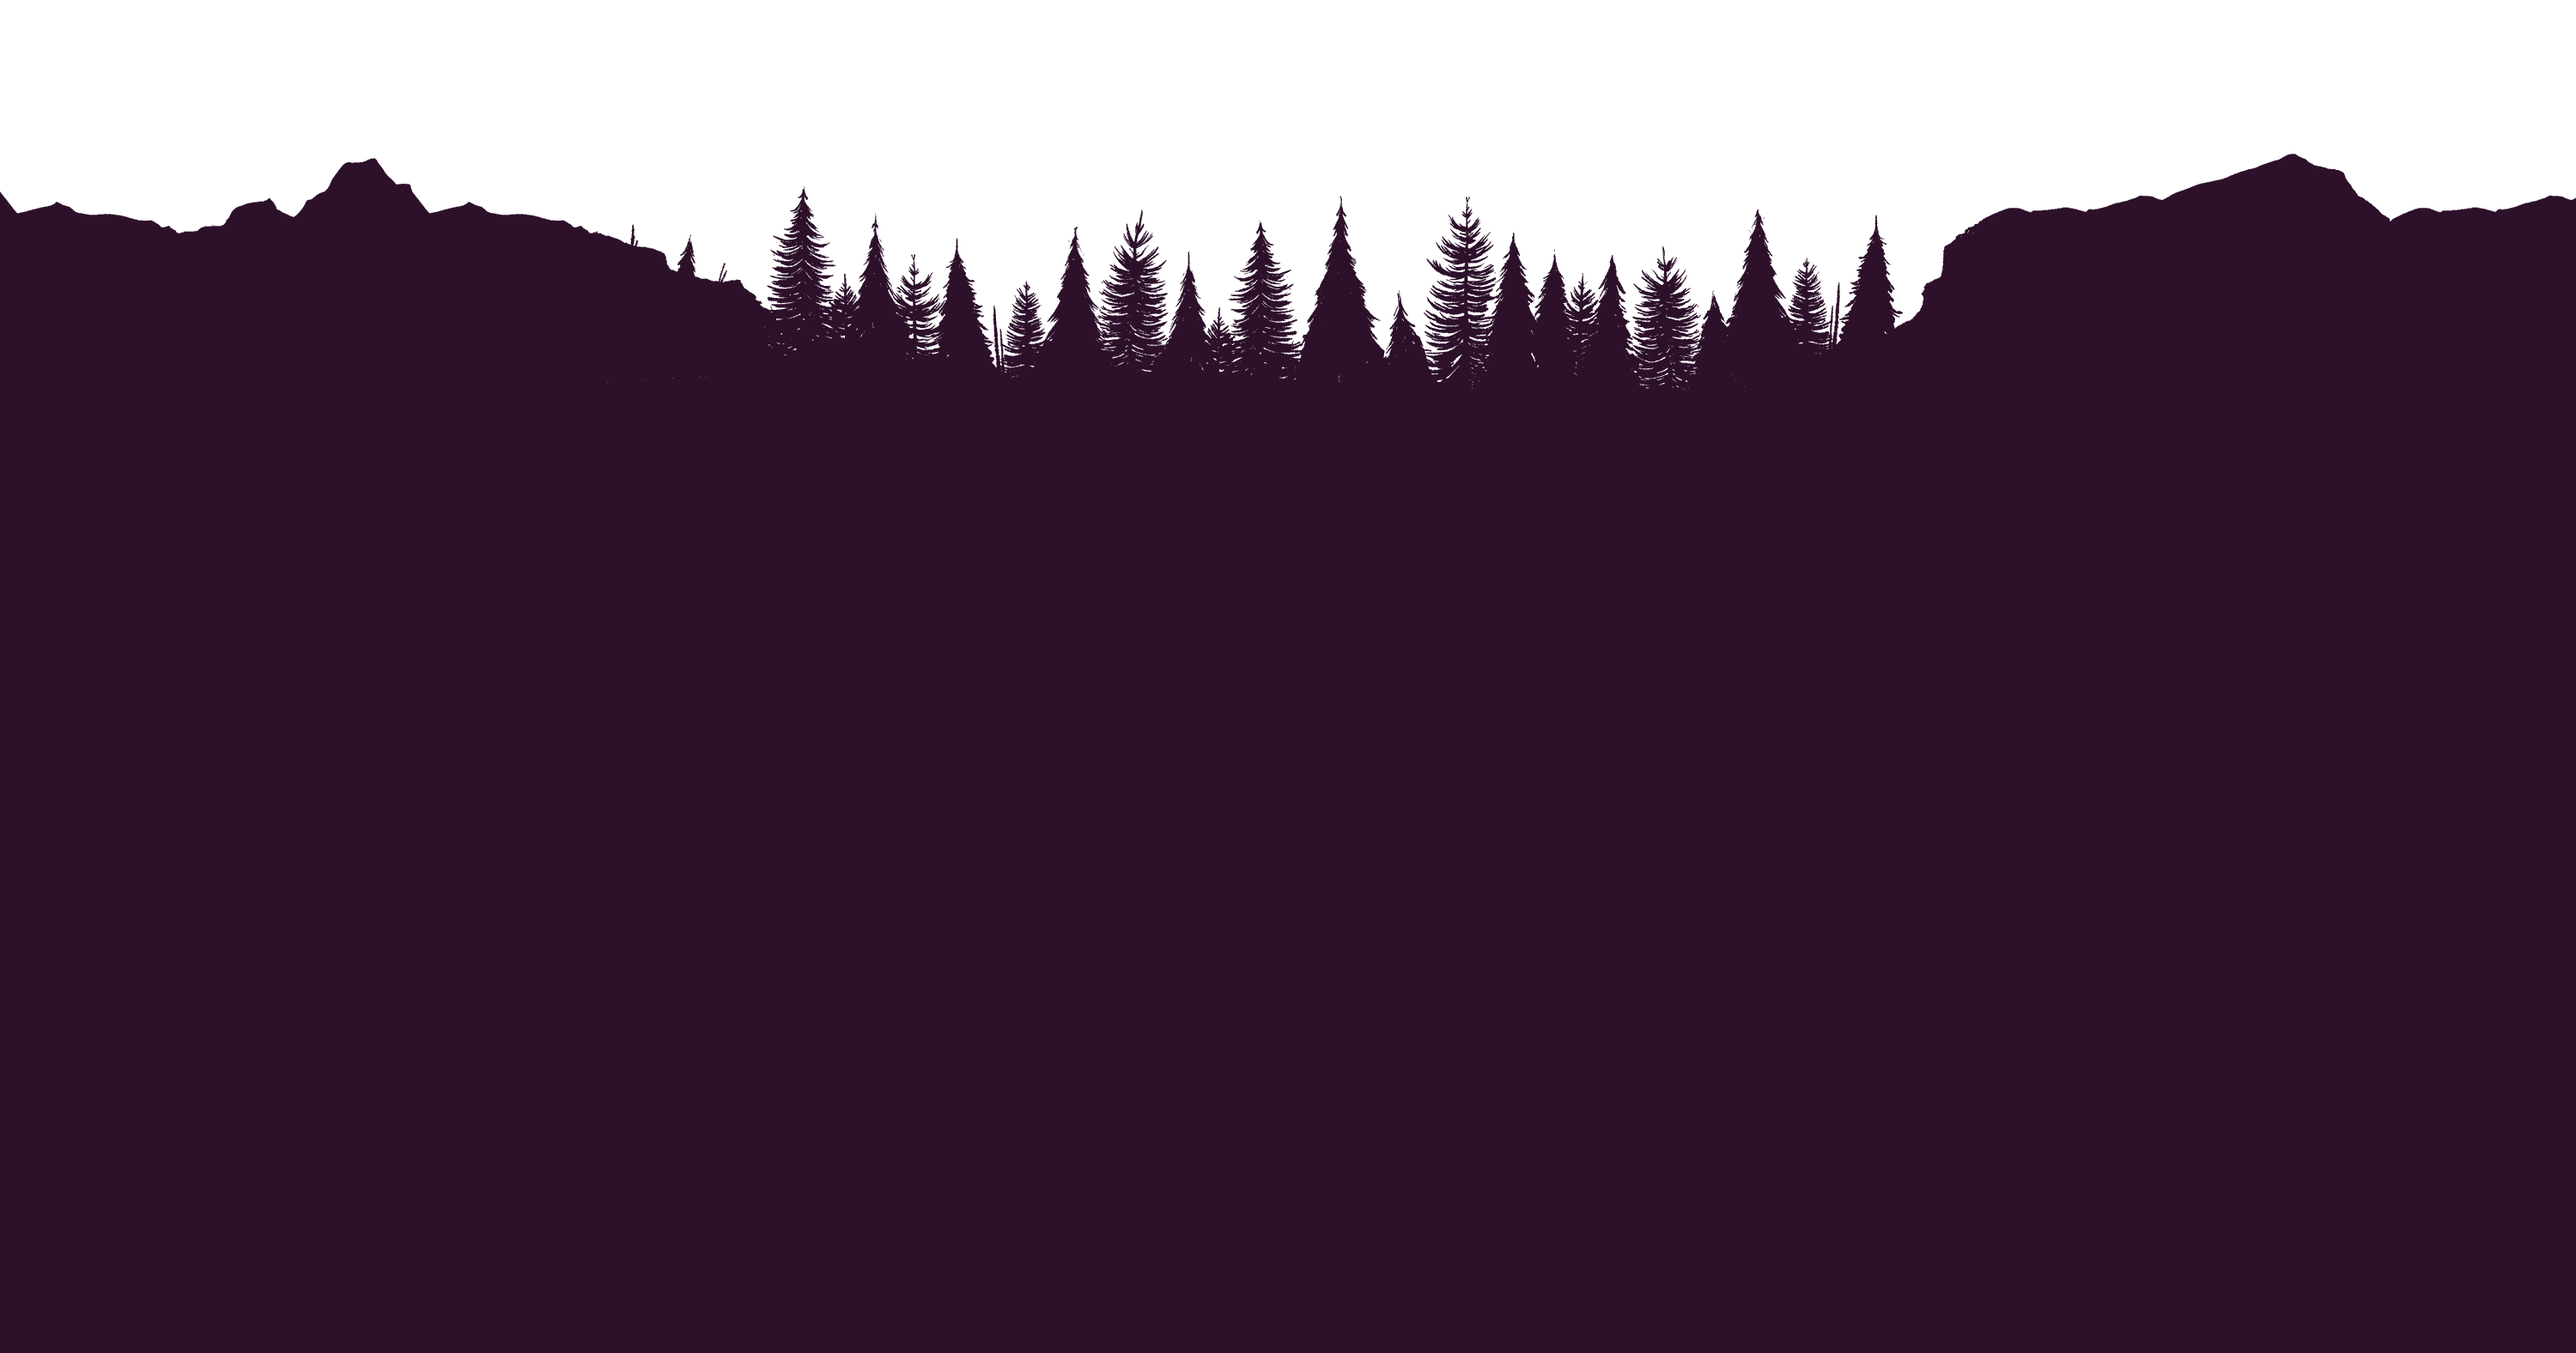
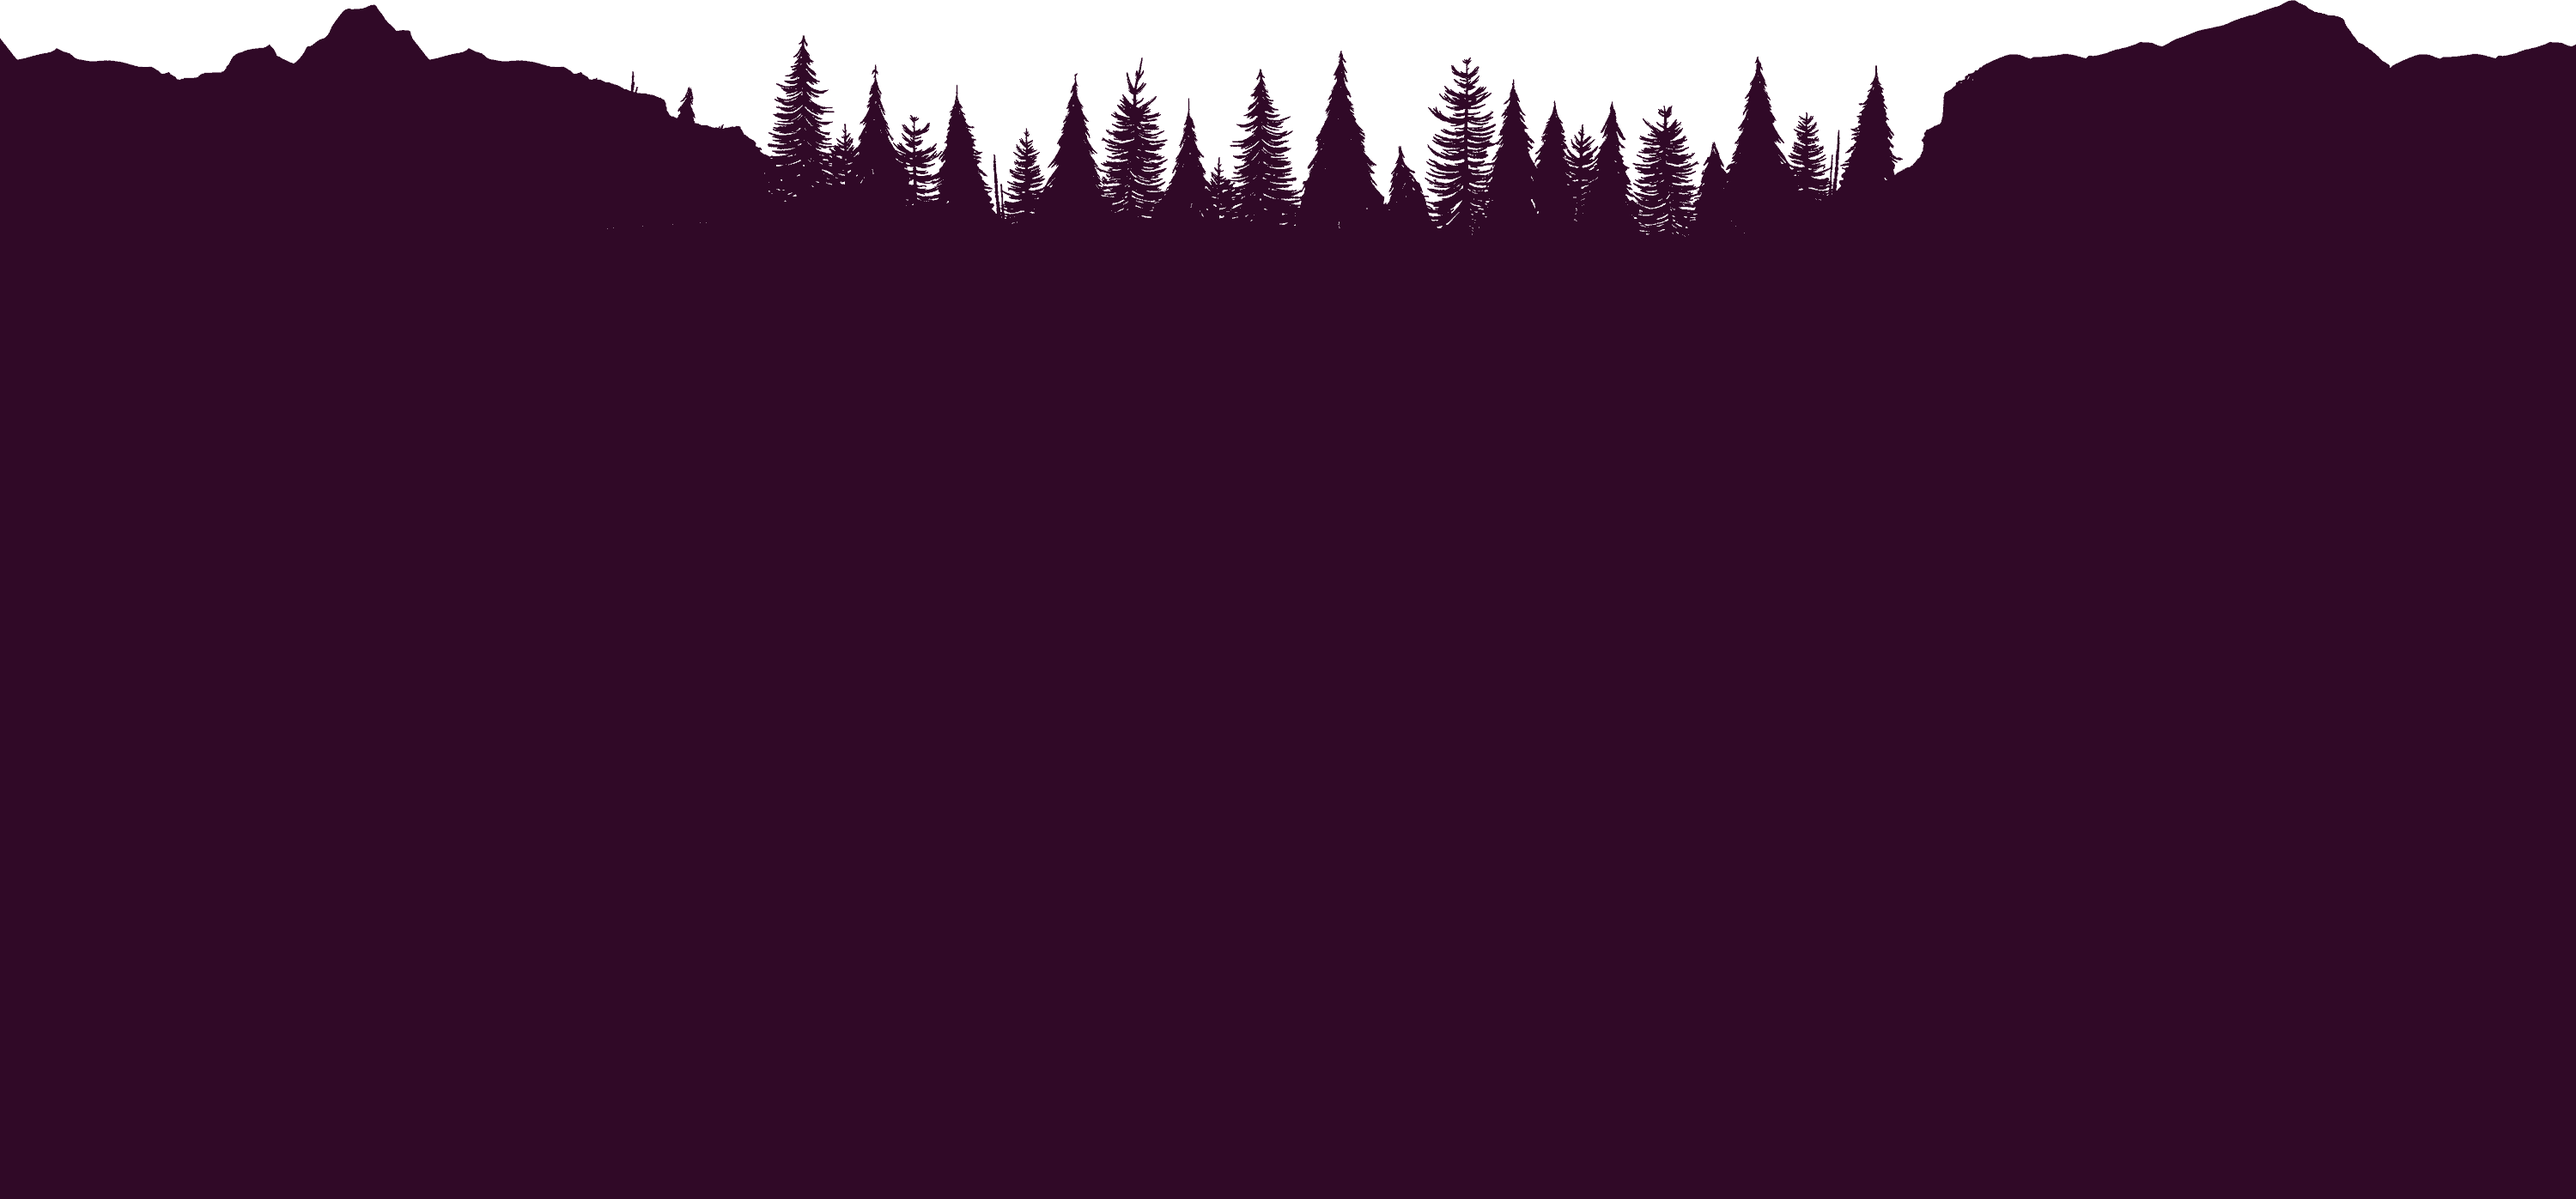
fixed 4th and 6th layer

Changed region(s): [[0.0, 0.0, 1.0, 0.277]]

diff --git a/src/components/Navbar.js b/src/components/Navbar.js
@@ -4,28 +4,29 @@ import { Parallax, ParallaxLayer /*, IParallax*/ } from '@react-spring/parallax'
 import logo from '../assets/logo.png';
 //import layer6 from '../assets/newLayer6.png'
 
-//I was able to center the images, but cant add the file ../assets/newLayer6.png in line 25 - Pedro
+// used https://es.imgbb.com/ to upload the image and use it (line 25) - Pedro
+
 
 const Navbar = () => {
     return (
 
         <Parallax pages={2} className="header">
-            <ParallaxLayer speed={0} offset={0} style={{backgroundImage: `url("https://p1-juejin.byteimg.com/tos-cn-i-k3u1fbpfcp/2ac35929aa1146b1afd954acbaa6fbc1~tplv-k3u1fbpfcp-watermark.awebp?")`,backgroundSize:"contain"}}>
+            <ParallaxLayer speed={0} offset={0} style={{backgroundImage: `url("https://p1-juejin.byteimg.com/tos-cn-i-k3u1fbpfcp/2ac35929aa1146b1afd954acbaa6fbc1~tplv-k3u1fbpfcp-watermark.awebp?")`,backgroundSize:"contain", repeat:"true"}}>
             </ParallaxLayer>
-            <ParallaxLayer speed={0} offset={0} style={{backgroundImage: `url("https://github.com/samdbeckham/blog/blob/master/dev/_assets/images/articles/firewatch/layer_1.png?raw=true")`, backgroundPosition: 'center 40%'}}>
+            <ParallaxLayer speed={0} offset={0} style={{backgroundImage: `url("https://github.com/samdbeckham/blog/blob/master/dev/_assets/images/articles/firewatch/layer_1.png?raw=true")`, backgroundPosition: 'center 40%', repeat:"true"}}>
             </ParallaxLayer>
-            <ParallaxLayer speed={0.09} offset={0} style={{backgroundImage:`url("https://github.com/samdbeckham/blog/blob/master/dev/_assets/images/articles/firewatch/layer_2.png?raw=true")`, backgroundPosition: 'center 40%'}}>
+            <ParallaxLayer speed={0.09} offset={0} style={{backgroundImage:`url("https://github.com/samdbeckham/blog/blob/master/dev/_assets/images/articles/firewatch/layer_2.png?raw=true")`, backgroundPosition: 'center 40%', repeat:"true"}}>
             </ParallaxLayer>
-            <ParallaxLayer speed={0.1} offset={0} style={{backgroundImage:`url("https://github.com/samdbeckham/blog/blob/master/dev/_assets/images/articles/firewatch/layer_3.png?raw=true")`, backgroundPosition: 'center 40%'}}>
+            <ParallaxLayer speed={0.1} offset={0} style={{backgroundImage:`url("https://github.com/samdbeckham/blog/blob/master/dev/_assets/images/articles/firewatch/layer_3.png?raw=true")`, backgroundPosition: 'center 40%', repeat:"true"}}>
             </ParallaxLayer>
-            <ParallaxLayer speed={0.2} offset={0.1} style={{backgroundImage:`url("https://github.com/samdbeckham/blog/blob/master/dev/_assets/images/articles/firewatch/layer_4.png?raw=true")`, backgroundPosition: 'center 40%'}}>
+            <ParallaxLayer speed={0.1} offset={0} style={{backgroundImage:`url("https://github.com/samdbeckham/blog/blob/master/dev/_assets/images/articles/firewatch/layer_4.png?raw=true")`, backgroundPosition: 'center 40%', repeat:"true"}}>
             </ParallaxLayer>
-            <ParallaxLayer speed={0.7} offset={0.1} style={{backgroundImage:`url("https://github.com/samdbeckham/blog/blob/master/dev/_assets/images/articles/firewatch/layer_5.png?raw=true")`, backgroundPosition: 'center 40%'}}>
+            <ParallaxLayer speed={0.3} offset={0} style={{backgroundImage:`url("https://github.com/samdbeckham/blog/blob/master/dev/_assets/images/articles/firewatch/layer_5.png?raw=true")`, backgroundPosition: 'center 40%', repeat:"true"}}>
             </ParallaxLayer>
-            <ParallaxLayer speed={0.7} offset={0} style={{background:`url(../assets/newLayer6.png)`}}>
-             </ParallaxLayer>
-            <ParallaxLayer speed={0.7} offset={0.75} style={{backgroundColor:"#2D112A",display:"flex",justifyContent:"center"}}>
-                <img alt="" style={{height:"35%",width:"30%",minHeight:"100px",minWidth:"220px"}} src={logo}/>
+            <ParallaxLayer speed={0.3} offset={0.4} style={{backgroundImage:`url("https://i.ibb.co/RzdbSGM/new-Layer6.png")`, backgroundPosition:"center 1%", repeat:"true"}}>
+            </ParallaxLayer>
+            <ParallaxLayer speed={0.3} offset={0.75} style={{backgroundColor:"#2D112A",display:"flex",justifyContent:"center"}}>
+                <img alt="" style={{height:"35%",width:"30%",minHeight:"100px",minWidth:"220px"}} src={logo}/> 
             </ParallaxLayer>
             <ParallaxLayer speed={0} offset={1} style={{backgroundColor:"#2D112A"}}>
             </ParallaxLayer>
